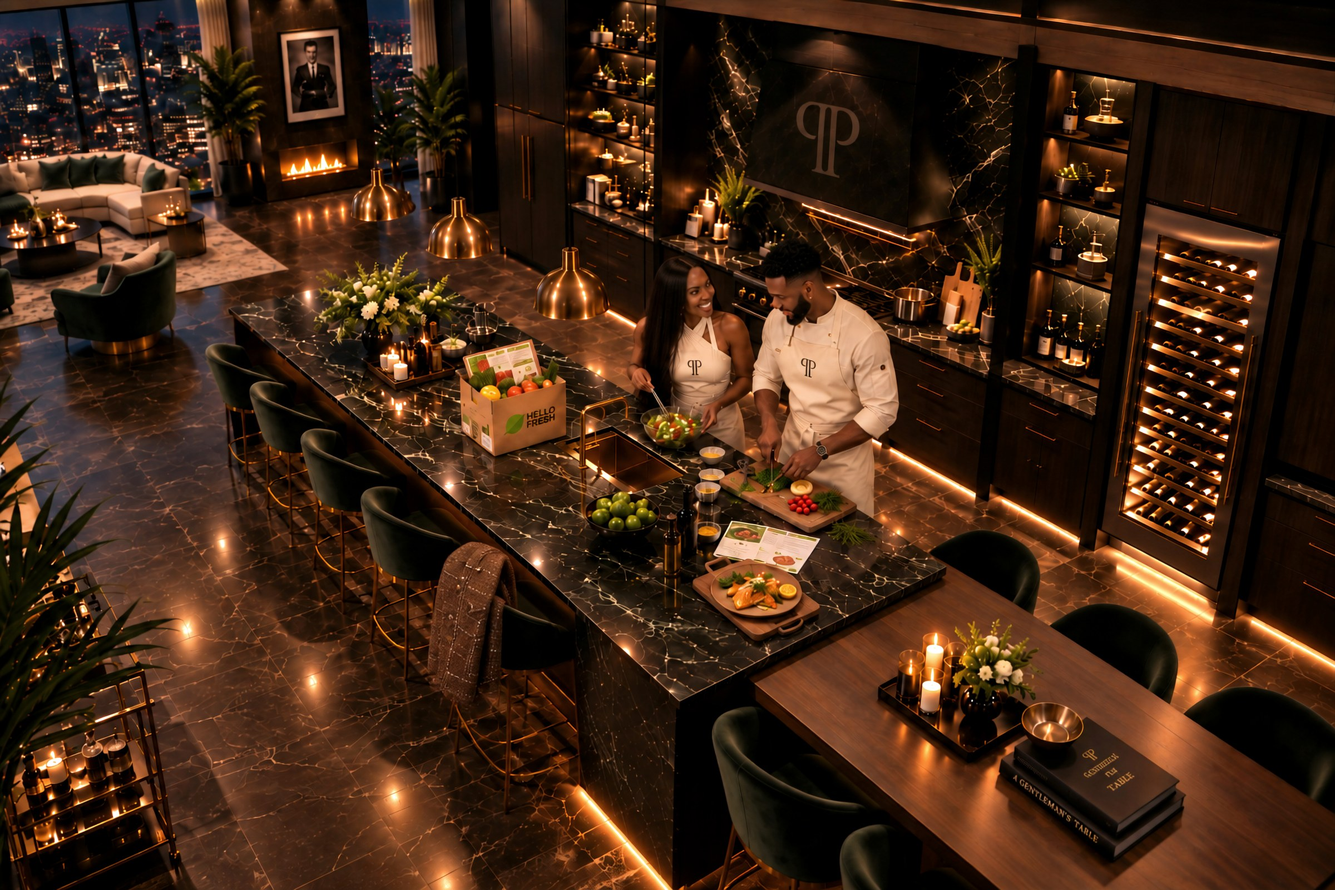
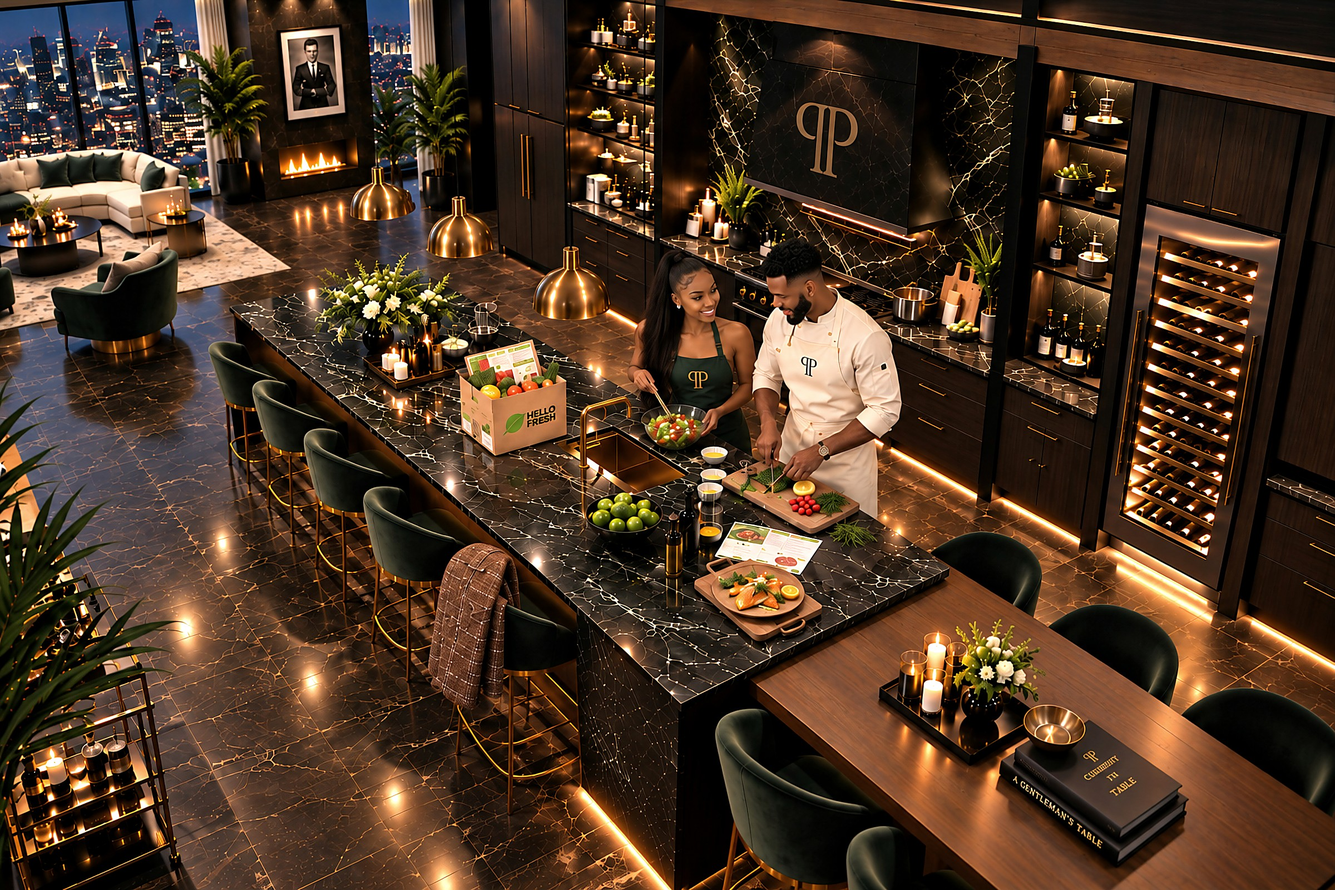
Update the Kitchen to a hi-res re-render, sharpened
Reposition the City window-dot onto clean skyline glass -- the new
render's curtain sits a little differently than the old one, and the
prior (32%, 6.8%) spot now lands on the curtain edge instead of the
window. HelloFresh and Jacket artifact positions carried over unchanged
since the island/couple composition is otherwise the same shot.

diff --git a/house.html b/house.html
@@ -84,8 +84,8 @@
   <div class="floor-scene__surface">
     <div class="floor-scene__canvas">
       <div class="floor-scene__view">
-        <img src="assets/img/room-bath.jpg?v=20260913h"
-             srcset="assets/img/room-bath@sm.jpg?v=20260913h 1200w, assets/img/room-bath.jpg?v=20260913h 2400w"
+        <img src="assets/img/room-bath.jpg?v=20260913i"
+             srcset="assets/img/room-bath@sm.jpg?v=20260913i 1200w, assets/img/room-bath.jpg?v=20260913i 2400w"
              sizes="100vw" alt="The Bathroom" loading="lazy"
              style="--focus:50% 50%" width="2400" height="1340">
         <div class="artifacts">
@@ -118,8 +118,8 @@
   <div class="floor-scene__surface">
     <div class="floor-scene__canvas">
       <div class="floor-scene__view">
-        <img src="assets/img/room-bedroom.jpg?v=20260913h"
-             srcset="assets/img/room-bedroom@sm.jpg?v=20260913h 1200w, assets/img/room-bedroom.jpg?v=20260913h 2400w"
+        <img src="assets/img/room-bedroom.jpg?v=20260913i"
+             srcset="assets/img/room-bedroom@sm.jpg?v=20260913i 1200w, assets/img/room-bedroom.jpg?v=20260913i 2400w"
              sizes="100vw" alt="The Bedroom" loading="lazy"
              style="--focus:50% 52%" width="2400" height="1340">
         <div class="artifacts">
@@ -186,8 +186,8 @@
   <div class="floor-scene__surface">
     <div class="floor-scene__canvas">
       <div class="floor-scene__view">
-        <img src="assets/img/room-closet.jpg?v=20260913h"
-             srcset="assets/img/room-closet@sm.jpg?v=20260913h 1200w, assets/img/room-closet.jpg?v=20260913h 2400w"
+        <img src="assets/img/room-closet.jpg?v=20260913i"
+             srcset="assets/img/room-closet@sm.jpg?v=20260913i 1200w, assets/img/room-closet.jpg?v=20260913i 2400w"
              sizes="100vw" alt="The Closet" loading="lazy"
              style="--focus:50% 52%" width="2400" height="1340">
         <div class="artifacts">
@@ -268,8 +268,8 @@
   <div class="floor-scene__surface">
     <div class="floor-scene__canvas">
       <div class="floor-scene__view">
-        <img src="assets/img/room-kitchen.jpg?v=20260913h"
-             srcset="assets/img/room-kitchen@sm.jpg?v=20260913h 1200w, assets/img/room-kitchen.jpg?v=20260913h 2400w"
+        <img src="assets/img/room-kitchen.jpg?v=20260913i"
+             srcset="assets/img/room-kitchen@sm.jpg?v=20260913i 1200w, assets/img/room-kitchen.jpg?v=20260913i 2400w"
              sizes="100vw" alt="The Kitchen" loading="lazy"
              style="--focus:50% 54%" width="2400" height="1340">
         <div class="artifacts">
@@ -283,7 +283,7 @@
           <span class="artifact__label">The Jacket</span>
           
         </button>
-        <a href="charlotte.html" class="artifact artifact--remote" style="--x:32%;--y:6.8%">
+        <a href="charlotte.html" class="artifact artifact--remote" style="--x:27.5%;--y:3.75%">
           <span class="artifact__dot" aria-hidden="true"></span>
           <span class="artifact__label">The City</span>
         </a>
@@ -357,8 +357,8 @@
   <div class="floor-scene__surface">
     <div class="floor-scene__canvas">
       <div class="floor-scene__view">
-        <img src="assets/img/room-living.jpg?v=20260913h"
-             srcset="assets/img/room-living@sm.jpg?v=20260913h 1200w, assets/img/room-living.jpg?v=20260913h 2400w"
+        <img src="assets/img/room-living.jpg?v=20260913i"
+             srcset="assets/img/room-living@sm.jpg?v=20260913i 1200w, assets/img/room-living.jpg?v=20260913i 2400w"
              sizes="100vw" alt="The Living Room" loading="lazy"
              style="--focus:50% 50%" width="2400" height="1340">
   <div class="floor-scene__screen" style="--x:55.7%;--y:24.0%;--w:17%;--h:14%" data-tv data-channel-set="living" data-box="0.4740,0.1704,0.6406,0.3093">
@@ -502,8 +502,8 @@
   <div class="floor-scene__surface">
     <div class="floor-scene__canvas">
       <div class="floor-scene__view">
-        <img src="assets/img/room-study.jpg?v=20260913h"
-             srcset="assets/img/room-study@sm.jpg?v=20260913h 1200w, assets/img/room-study.jpg?v=20260913h 2400w"
+        <img src="assets/img/room-study.jpg?v=20260913i"
+             srcset="assets/img/room-study@sm.jpg?v=20260913i 1200w, assets/img/room-study.jpg?v=20260913i 2400w"
              sizes="100vw" alt="The Study" loading="lazy"
              style="--focus:50% 52%" width="2400" height="1340">
         <div class="artifacts">
@@ -646,8 +646,8 @@
   <div class="floor-scene__surface">
     <div class="floor-scene__canvas">
       <div class="floor-scene__view">
-        <img src="assets/img/room-musiclounge.jpg?v=20260913h"
-             srcset="assets/img/room-musiclounge@sm.jpg?v=20260913h 1200w, assets/img/room-musiclounge.jpg?v=20260913h 2400w"
+        <img src="assets/img/room-musiclounge.jpg?v=20260913i"
+             srcset="assets/img/room-musiclounge@sm.jpg?v=20260913i 1200w, assets/img/room-musiclounge.jpg?v=20260913i 2400w"
              sizes="100vw" alt="The Music Lounge" loading="lazy"
              style="--focus:50% 50%" width="2400" height="1340">
         <div class="artifacts">
@@ -729,8 +729,8 @@
   <div class="floor-scene__surface">
     <div class="floor-scene__canvas">
       <div class="floor-scene__view">
-        <img src="assets/img/room-gym.jpg?v=20260913h"
-             srcset="assets/img/room-gym@sm.jpg?v=20260913h 1200w, assets/img/room-gym.jpg?v=20260913h 2400w"
+        <img src="assets/img/room-gym.jpg?v=20260913i"
+             srcset="assets/img/room-gym@sm.jpg?v=20260913i 1200w, assets/img/room-gym.jpg?v=20260913i 2400w"
              sizes="100vw" alt="The Gym" loading="lazy"
              style="--focus:50% 50%" width="2400" height="1340">
         <div class="artifacts">
@@ -762,8 +762,8 @@
   <div class="floor-scene__surface">
     <div class="floor-scene__canvas">
       <div class="floor-scene__view">
-        <img src="assets/img/room-cinema.jpg?v=20260913h"
-             srcset="assets/img/room-cinema@sm.jpg?v=20260913h 1200w, assets/img/room-cinema.jpg?v=20260913h 2400w"
+        <img src="assets/img/room-cinema.jpg?v=20260913i"
+             srcset="assets/img/room-cinema@sm.jpg?v=20260913i 1200w, assets/img/room-cinema.jpg?v=20260913i 2400w"
              sizes="100vw" alt="The Cinema" loading="lazy"
              style="--focus:50% 54%" width="2400" height="1340">
   <div class="floor-scene__screen" style="--x:49.7%;--y:30.9%;--w:28%;--h:25%" data-tv data-channel-set="cinema" data-box="0.3563,0.1833,0.6385,0.4352">

diff --git a/assets/js/penthouse.js b/assets/js/penthouse.js
@@ -18,7 +18,7 @@
   // a room photo is re-shot in place (same filename, new bytes), since
   // browsers and Cloudflare's edge otherwise keep serving the old file for
   // hours off the unchanged URL.
-  var IMG_VER = '20260913h';
+  var IMG_VER = '20260913i';
 
   // Order here (mirrors build_house.py's _PENTHOUSE_ORDER exactly) is what
   // the room-pager's slide direction is actually built from -- it pages by
@@ -164,7 +164,7 @@
     'penthouse-living': ['21%', '10%'],  // clean window pane above the stairwell beam, skyline visible
     'bedroom':          ['19%', '18.6%'], // clear glass past the lamp, above the lounge chair
     'bath':             ['38%', '6%'],   // the skyline through the window, clear of the tub and plant
-    'kitchen':          ['32%', '6.8%'], // the narrow window beside the fireplace wall, clear of the plant
+    'kitchen':          ['27.5%', '3.75%'], // clean skyline pane left of the curtain, clear of the plant
     'music-lounge':     ['72%', '8%']    // the sliver of skyline beside the bar's PP sign, past the curtain
   };
   function cityLinkHTML(roomId) {

diff --git a/build_house.py b/build_house.py
@@ -33,7 +33,7 @@ FLOORS = json.loads((Path(__file__).resolve().parent / "data" / "house-rooms.jso
 # serving the old file for hours after a swap unless the URL itself
 # changes. Bumping this on every image update forces a fresh fetch --
 # mirror any change here in assets/js/penthouse.js's IMG_VER too.
-IMG_VER = "20260913h"
+IMG_VER = "20260913i"
 
 def esc(t):
     return t.replace("&","&amp;").replace("<","&lt;").replace(">","&gt;").replace("'","&#8217;")
@@ -187,7 +187,7 @@ CITY_NODE_POS = {
     "penthouse-living": ("21%", "10%"),   # clean window pane above the stairwell beam, skyline visible
     "bedroom":          ("19%", "18.6%"), # clear glass past the lamp, above the lounge chair
     "bath":             ("38%", "6%"),    # the skyline through the window, clear of the tub and plant
-    "kitchen":          ("32%", "6.8%"),  # the narrow window beside the fireplace wall, clear of the plant
+    "kitchen":          ("27.5%", "3.75%"),  # clean skyline pane left of the curtain, clear of the plant
     "music-lounge":     ("72%", "8%"),    # the sliver of skyline beside the bar's PP sign, past the curtain
 }
 
